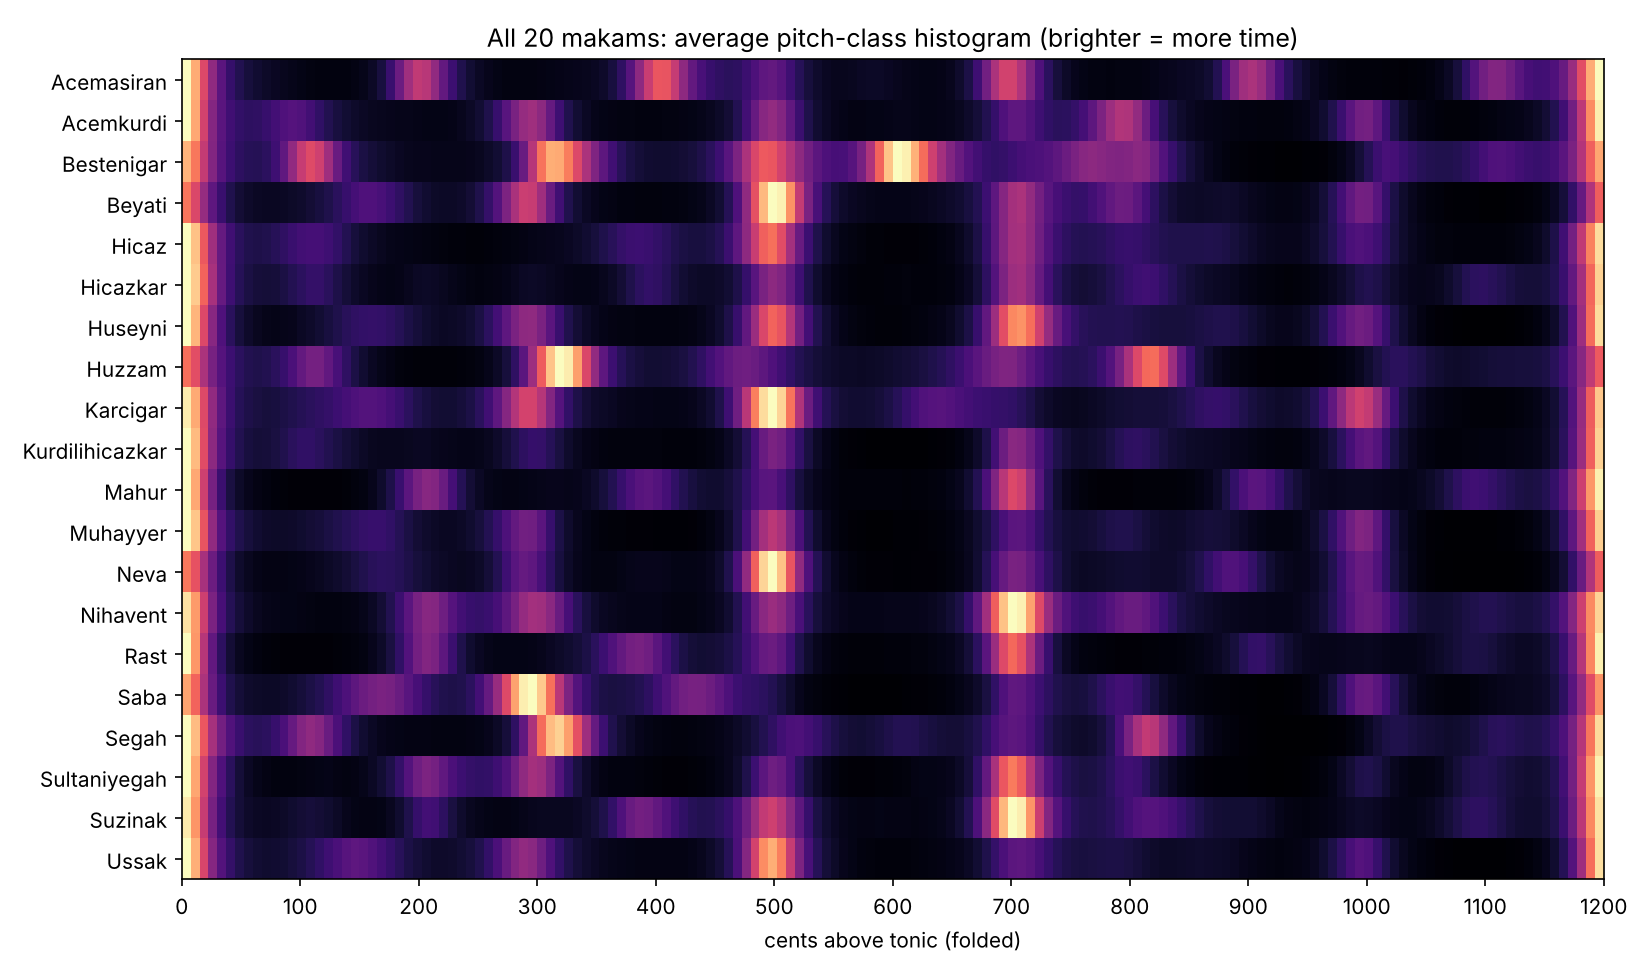
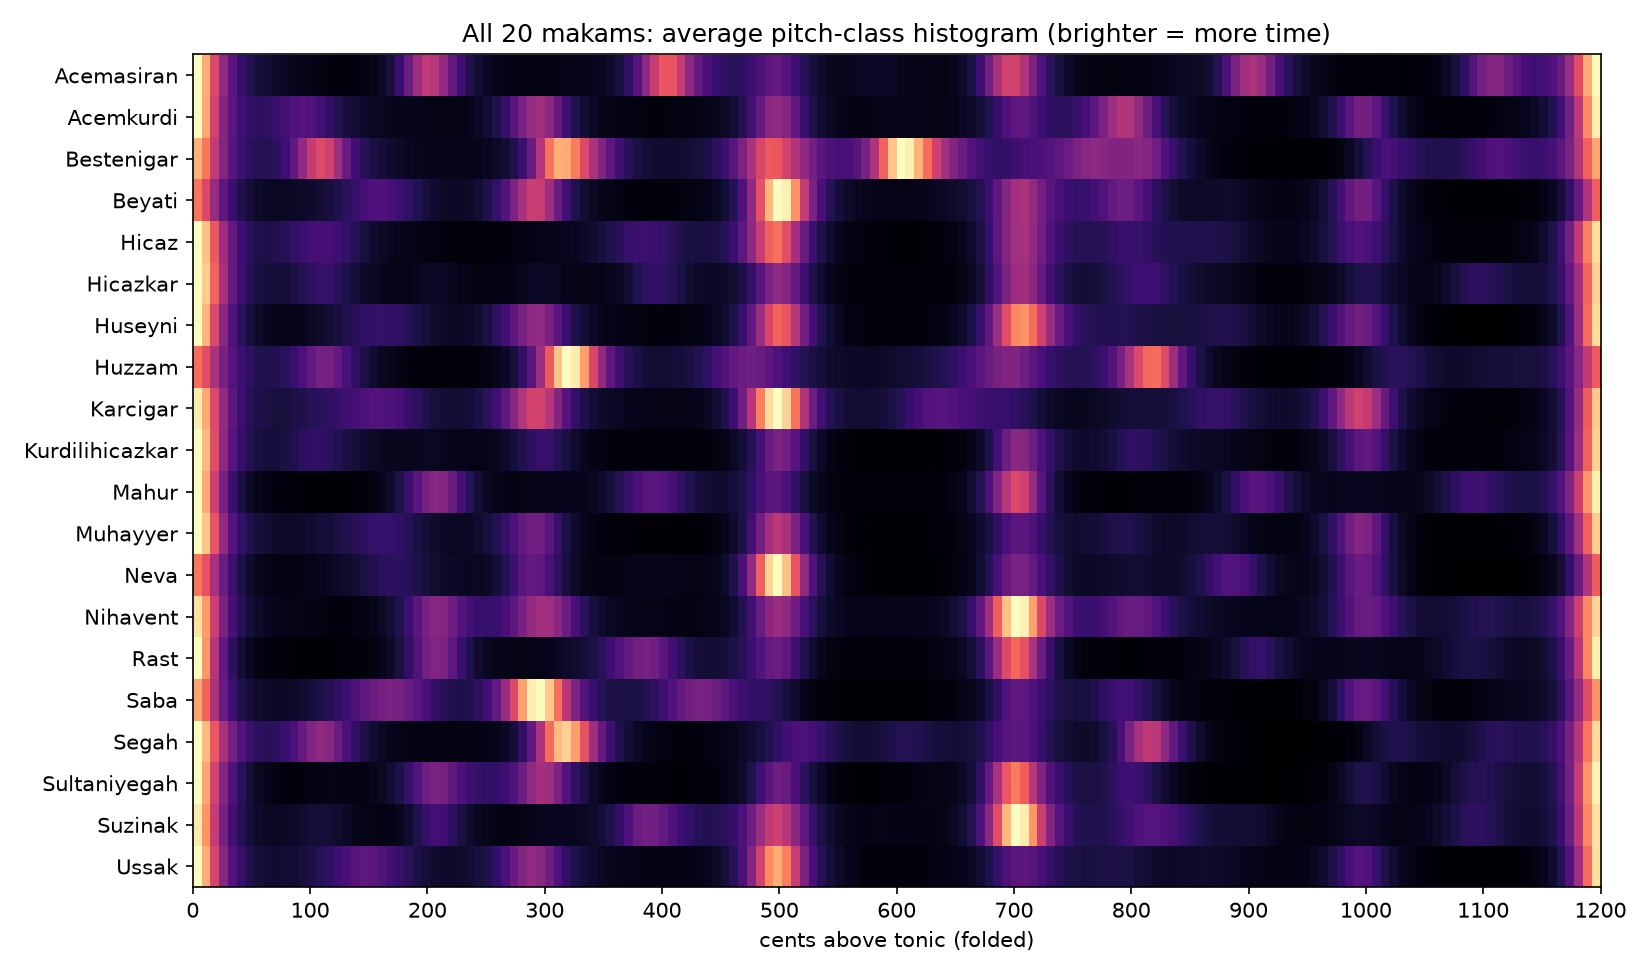
M1 exercises: --compare, top-peak finder, silence tests

diff --git a/scripts/m1_explore.py b/scripts/m1_explore.py
@@ -1,10 +1,10 @@
-"""M1 — explore the dataset: stats, a melody contour, pitch-class histograms.
+"""M1 — explore the dataset: stats, a melody contour, pitch-class histograms
 
 Usage:
     python scripts/m1_explore.py --data ../otmm_makam_recognition_dataset
 
-Outputs go to figures/ and the stats are printed.
-The first run parses 1,000 text files (a few minutes); later runs use the cache.
+Outputs go to figures/ and the stats are printed 
+The first run parses 1,000 text files (a few minutes); later runs use the cache
 """
 
 from __future__ import annotations
@@ -20,7 +20,7 @@ import matplotlib.pyplot as plt
 import numpy as np
 
 from makam.data import HOP_SECONDS, load_pitch, load_recordings
-from makam.features import bin_centers, hz_to_cents, pitch_class_histogram
+from makam.features import bin_centers, hz_to_cents, pitch_class_histogram, top_peak_cents
 
 BIN_WIDTH = 7.5
 
@@ -38,7 +38,7 @@ def print_stats(recordings, pitches) -> None:
           f"(min {durations_min.min():.1f}, max {durations_min.max():.1f})")
     print(f"Voiced fraction: median {np.median(voiced):.0%}")
 
-    # --- Leakage check: does the same composition / performer appear several times?
+    # leakage check: does the same composition/performer appear several times?
     work_counts = Counter(w for r in recordings for w in r.works)
     artist_counts = Counter(a for r in recordings for a in r.artists)
     repeated_works = {w: c for w, c in work_counts.items() if c > 1}
@@ -54,7 +54,7 @@ def print_stats(recordings, pitches) -> None:
 
 
 def plot_contour(rec, pitch, out: Path, start_s: float = 30, length_s: float = 20) -> None:
-    """Melody of one recording in cents vs. time, with piano semitones as dotted lines."""
+    """Melody of one recording in cents vs. time, with piano semitones as dotted lines"""
     i0, i1 = int(start_s / HOP_SECONDS), int((start_s + length_s) / HOP_SECONDS)
     segment = pitch[i0:i1]
     t = start_s + np.arange(len(segment)) * HOP_SECONDS
@@ -76,7 +76,7 @@ def plot_contour(rec, pitch, out: Path, start_s: float = 30, length_s: float = 2
 
 
 def mean_histograms(recordings, pitches) -> dict[str, np.ndarray]:
-    """Average pitch-class histogram per makam."""
+    """Average pitch-class histogram per makam"""
     per_makam: dict[str, list[np.ndarray]] = {}
     for rec, p in zip(recordings, pitches):
         h = pitch_class_histogram(hz_to_cents(p, rec.tonic_hz), bin_width=BIN_WIDTH)
@@ -86,7 +86,9 @@ def mean_histograms(recordings, pitches) -> dict[str, np.ndarray]:
 
 def plot_makam_comparison(means: dict[str, np.ndarray], makams: list[str], out: Path) -> None:
     x = bin_centers(BIN_WIDTH)
-    fig, axes = plt.subplots(len(makams), 1, figsize=(11, 2.2 * len(makams)), sharex=True)
+    fig, axes = plt.subplots(len(makams), 1, figsize=(11, 2.2 * len(makams)), sharex=True,
+                             squeeze=False)  # always a 2-D array, even for 1 makam
+    axes = axes[:, 0]
     for ax, m in zip(axes, makams):
         for c in range(0, 1201, 100):
             ax.axvline(c, color="0.85", lw=0.6, ls=":", zorder=0)
@@ -116,11 +118,21 @@ def plot_all_makams_heatmap(means: dict[str, np.ndarray], out: Path) -> None:
     plt.close(fig)
 
 
+def print_top_peaks(means: dict[str, np.ndarray]) -> None:
+    """Exercise 2: the strongest non-tonic note of each makam, sorted by position"""
+    peaks = {m: top_peak_cents(h, bin_width=BIN_WIDTH) for m, h in means.items()}
+    print("\nStrongest note after the tonic (cents above tonic):")
+    for makam, cents in sorted(peaks.items(), key=lambda kv: kv[1]):
+        print(f"  {makam:<16} {cents:7.1f}")
+
+
 def main() -> None:
     parser = argparse.ArgumentParser()
     parser.add_argument("--data", required=True, help="path to otmm_makam_recognition_dataset")
     parser.add_argument("--cache", default="cache", help="folder for fast .npy copies")
     parser.add_argument("--out", default="figures")
+    parser.add_argument("--compare", nargs="+", default=["Rast", "Mahur", "Ussak", "Hicaz"],
+                        help="makams to plot side by side, e.g. --compare Saba Segah")
     args = parser.parse_args()
 
     out = Path(args.out)
@@ -135,8 +147,15 @@ def main() -> None:
     plot_contour(recordings[example], pitches[example], out / "m1_contour_rast.png")
 
     means = mean_histograms(recordings, pitches)
-    plot_makam_comparison(means, ["Rast", "Mahur", "Ussak", "Hicaz"], out / "m1_four_makams.png")
+
+    unknown = [m for m in args.compare if m not in means]
+    if unknown:
+        raise SystemExit(f"Unknown makam(s): {unknown}. Choose from: {', '.join(means)}")
+    name = "m1_compare_" + "_".join(args.compare) + ".png"
+    plot_makam_comparison(means, args.compare, out / name)
+
     plot_all_makams_heatmap(means, out / "m1_all_makams.png")
+    print_top_peaks(means)
     print(f"Figures written to {out}/")
 
 

diff --git a/src/makam/features.py b/src/makam/features.py
@@ -1,16 +1,16 @@
-"""Turning a pitch track (Hz) into features that describe a makam.
+"""Turning a pitch track (Hz) into features that describe a makam
 
 Key idea: we don't care about absolute frequency (a singer can perform the
 same makam higher or lower). We care about each note's distance FROM THE
-TONIC, measured in cents.
+TONIC, measured in cents
 
-    cents = 1200 * log2(f / tonic)
+cents = 1200 * log2(f / tonic)
 
-  * 0 cents    = the tonic itself
+  * 0 cents = the tonic itself
   * 1200 cents = one octave above (frequency doubled)
-  * 100 cents  = one piano semitone (Western 12-tone equal temperament)
+  * 100 cents = one piano semitone (Western 12-tone equal temperament)
   * Turkish theory splits the whole tone (~204 cents) into 9 "commas"
-    (~22.6 cents each), so many makam notes fall BETWEEN piano keys.
+    (ar. 22.6 cents each), so many makam notes fall BETWEEN piano keys
 """
 
 from __future__ import annotations
@@ -21,9 +21,9 @@ OCTAVE_CENTS = 1200.0
 
 
 def hz_to_cents(pitch_hz: np.ndarray, tonic_hz: float) -> np.ndarray:
-    """Convert voiced frequencies to cents relative to the tonic.
+    """Convert voiced frequencies to cents relative to the tonic
 
-    Unvoiced samples (0 Hz) are DROPPED, because log2(0) is -infinity.
+    Unvoiced samples (0 Hz) are DROPPED, because log2(0) is -infinity
     """
     if tonic_hz <= 0:
         raise ValueError(f"tonic must be positive, got {tonic_hz}")
@@ -32,10 +32,10 @@ def hz_to_cents(pitch_hz: np.ndarray, tonic_hz: float) -> np.ndarray:
 
 
 def fold_to_octave(cents: np.ndarray) -> np.ndarray:
-    """Map every note into [0, 1200): an A in any octave becomes 'the same' A.
+    """Map every note into [0, 1200): an A in any octave becomes 'the same' A
 
-    This is the 'pitch-class' view. np.mod handles negatives correctly:
-    -100 cents (just below the tonic) -> 1100 cents.
+    This is the 'pitch-class' view, np.mod handles negatives correctly:
+    -100 cents (just below the tonic) -> 1100 cents
     """
     return np.mod(cents, OCTAVE_CENTS)
 
@@ -45,13 +45,13 @@ def pitch_class_histogram(
     bin_width: float = 7.5,
     smoothing_cents: float | None = 7.5,
 ) -> np.ndarray:
-    """Octave-folded histogram of time spent on each pitch, normalized to sum to 1.
+    """Octave-folded histogram of time spent on each pitch, normalized to sum to 1
 
-    bin_width: resolution in cents. 7.5 cents = 160 bins per octave, fine
-        enough to separate notes ~1 comma (~22.6 cents) apart.
+    bin_width: resolution in cents, 7.5 cents = 160 bins per octave, fine
+        enough to separate notes ar. 1 comma (ar. 22.6 cents) apart
     smoothing_cents: std of a Gaussian blur applied around the circle
-        (the octave wraps: bin 159 is a neighbour of bin 0). Smoothing makes
-        histograms of different performances easier to compare. None = off.
+        (the octave wraps: bin 159 is a neighbour of bin 0) smoothing makes
+        histograms of different performances easier to compare, None = off
     """
     n_bins = int(round(OCTAVE_CENTS / bin_width))
     folded = fold_to_octave(cents)
@@ -66,16 +66,32 @@ def pitch_class_histogram(
 
 
 def bin_centers(bin_width: float = 7.5) -> np.ndarray:
-    """Cents value at the center of each histogram bin (useful for plotting)."""
+    """Cents value at the center of each histogram bin (useful for plotting)"""
     n_bins = int(round(OCTAVE_CENTS / bin_width))
     return (np.arange(n_bins) + 0.5) * bin_width
 
 
+def top_peak_cents(
+    hist: np.ndarray,
+    bin_width: float = 7.5,
+    exclude_around_tonic: float = 50.0,
+) -> float:
+    """Position (in cents) of the highest histogram bin that is NOT the tonic
+
+    The tonic is almost always the biggest peak, so we hide every bin within
+    `exclude_around_tonic` cents of 0 (or of 1200: the octave is a circle)
+    """
+    centers = bin_centers(bin_width)
+    distance_to_tonic = np.minimum(centers, OCTAVE_CENTS - centers)  # circular distance
+    masked = np.where(distance_to_tonic > exclude_around_tonic, hist, -np.inf)
+    return float(centers[np.argmax(masked)])
+
+
 def _circular_gaussian_smooth(hist: np.ndarray, sigma_bins: float) -> np.ndarray:
-    """Gaussian blur on a circular array, done with the FFT.
+    """Gaussian blur on a circular array, done with the FFT
 
     Multiplying in the frequency domain = circular convolution, so the
-    wrap-around at the octave boundary is handled for free.
+    wrap around at the octave boundary is handled for free
     """
     n = len(hist)
     offsets = np.arange(n)

diff --git a/src/makam/data.py b/src/makam/data.py
@@ -1,4 +1,4 @@
-"""Loading the OTMM Makam Recognition Dataset.
+"""Loading the OTMM Makam Recognition Dataset
 
 The dataset folder (cloned from GitHub) looks like:
 
@@ -7,8 +7,8 @@ The dataset folder (cloned from GitHub) looks like:
         data/<Makam>/<id>.pitch   # predominant melody: one frequency (Hz) per line
         data/<Makam>/<id>.json    # MusicBrainz metadata (works, artists, form...)
 
-A pitch value of 0.0 means "no melody detected here" (silence, percussion...).
-Consecutive values are 0.0029 s apart (HOP_SECONDS).
+A pitch value of 0.0 means "no melody detected here" (silence, percussion...)
+Consecutive values are 0.0029 s apart (HOP_SECONDS)
 """
 
 from __future__ import annotations
@@ -19,24 +19,24 @@ from pathlib import Path
 
 import numpy as np
 
-HOP_SECONDS = 128 / 44100  # ≈ 0.0029 s between two pitch samples
+HOP_SECONDS = 128 / 44100  # ar. 0.0029 s between two pitch samples
 
 
 @dataclass(frozen=True)
 class Recording:
-    """Everything we know about one recording, except the (large) pitch track."""
+    """Everything we know about one recording, except the (large) pitch track"""
 
     mbid: str            # MusicBrainz recording id = file name
     makam: str           # the label we want to predict
     tonic_hz: float      # annotated tonic frequency
     pitch_path: Path
-    works: tuple[str, ...] = field(default=())    # composition ids (for leakage checks)
-    artists: tuple[str, ...] = field(default=())  # performer ids (for leakage checks)
+    works: tuple[str, ...] = field(default=())    # composition ids 
+    artists: tuple[str, ...] = field(default=())  # performer ids 
     instrumentation: str = ""
 
 
 def load_recordings(dataset_dir: str | Path) -> list[Recording]:
-    """Read annotations.json + per-recording metadata. Does NOT load pitch tracks."""
+    """Read annotations.json + per-recording metadata. Does NOT load pitch tracks"""
     dataset_dir = Path(dataset_dir)
     with open(dataset_dir / "annotations.json", encoding="utf-8") as f:
         annotations = json.load(f)
@@ -64,10 +64,10 @@ def load_recordings(dataset_dir: str | Path) -> list[Recording]:
 
 
 def load_pitch(recording: Recording, cache_dir: str | Path | None = None) -> np.ndarray:
-    """Return the pitch track in Hz (float32, zeros kept).
+    """Return the pitch track in Hz (float32)
 
     Parsing text is slow, so if cache_dir is given we save a binary .npy copy
-    the first time and reuse it afterwards.
+    the first time and reuse it afterwards
     """
     if cache_dir is not None:
         cache_path = Path(cache_dir) / f"{recording.mbid}.npy"

diff --git a/tests/test_features.py b/tests/test_features.py
@@ -6,6 +6,7 @@ from makam.features import (
     fold_to_octave,
     hz_to_cents,
     pitch_class_histogram,
+    top_peak_cents,
 )
 
 
@@ -35,6 +36,25 @@ def test_histogram_sums_to_one_and_peaks_at_the_note():
     assert hist.sum() == pytest.approx(1.0)
     peak = bin_centers(7.5)[np.argmax(hist)]
     assert abs(peak - 702.0) <= 7.5
+
+
+def test_zero_hz_never_reaches_the_histogram():
+    # Adding silence (0 Hz) must not change the histogram at all
+    with_silence = hz_to_cents(np.array([0.0, 330.0, 0.0, 0.0]), tonic_hz=220.0)
+    without = hz_to_cents(np.array([330.0]), tonic_hz=220.0)
+    np.testing.assert_allclose(pitch_class_histogram(with_silence), pitch_class_histogram(without))
+
+
+def test_all_silent_track_gives_empty_histogram_not_a_crash():
+    hist = pitch_class_histogram(hz_to_cents(np.zeros(10), tonic_hz=220.0))
+    assert hist.sum() == 0
+
+
+def test_top_peak_ignores_the_tonic():
+    # Big peak on the tonic, smaller one on the fourth (498 cents)
+    cents = np.concatenate([np.full(900, 0.0), np.full(100, 498.0)])
+    hist = pitch_class_histogram(cents, bin_width=7.5)
+    assert abs(top_peak_cents(hist, bin_width=7.5) - 498.0) <= 7.5
 
 
 def test_smoothing_wraps_around_the_octave():
